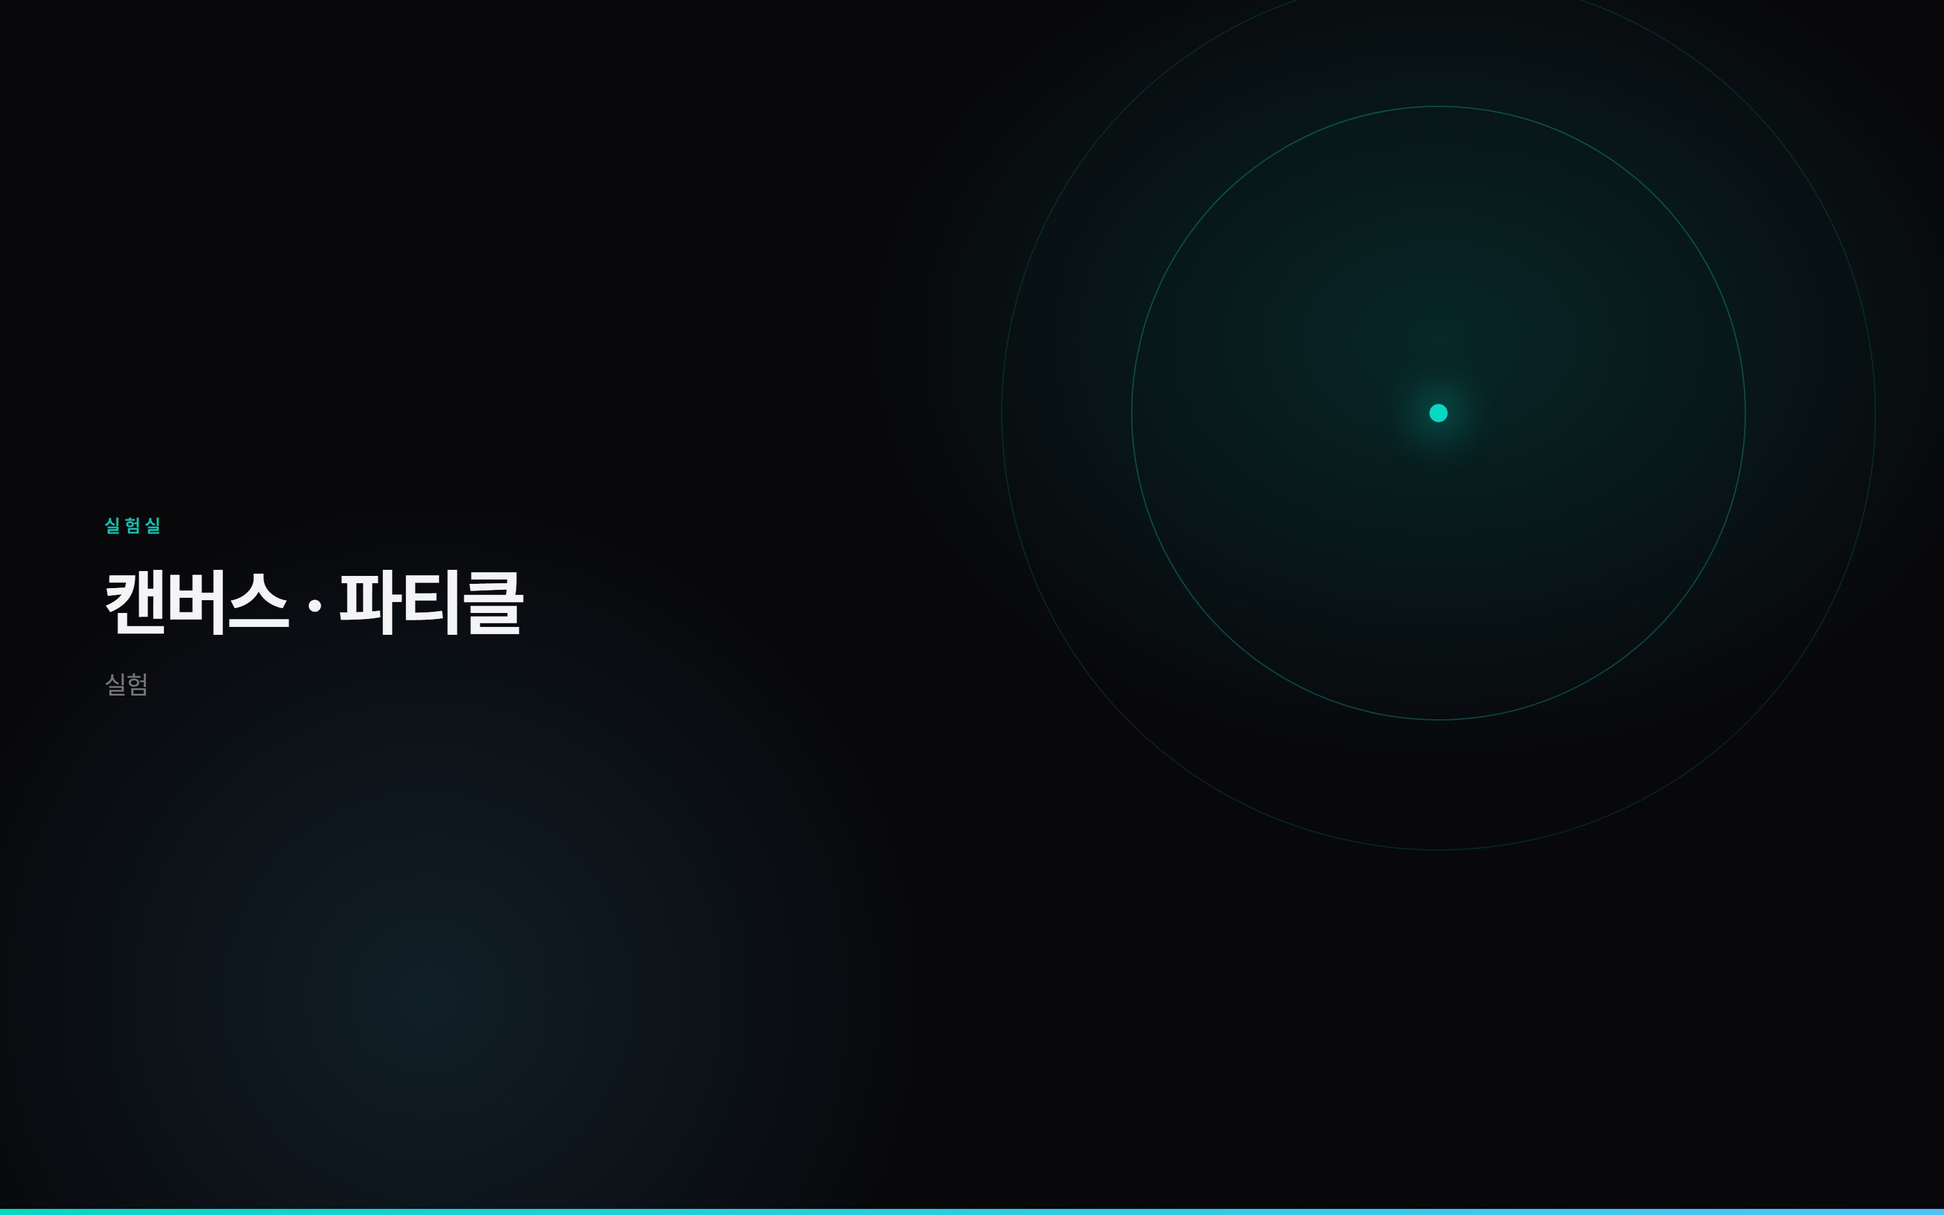
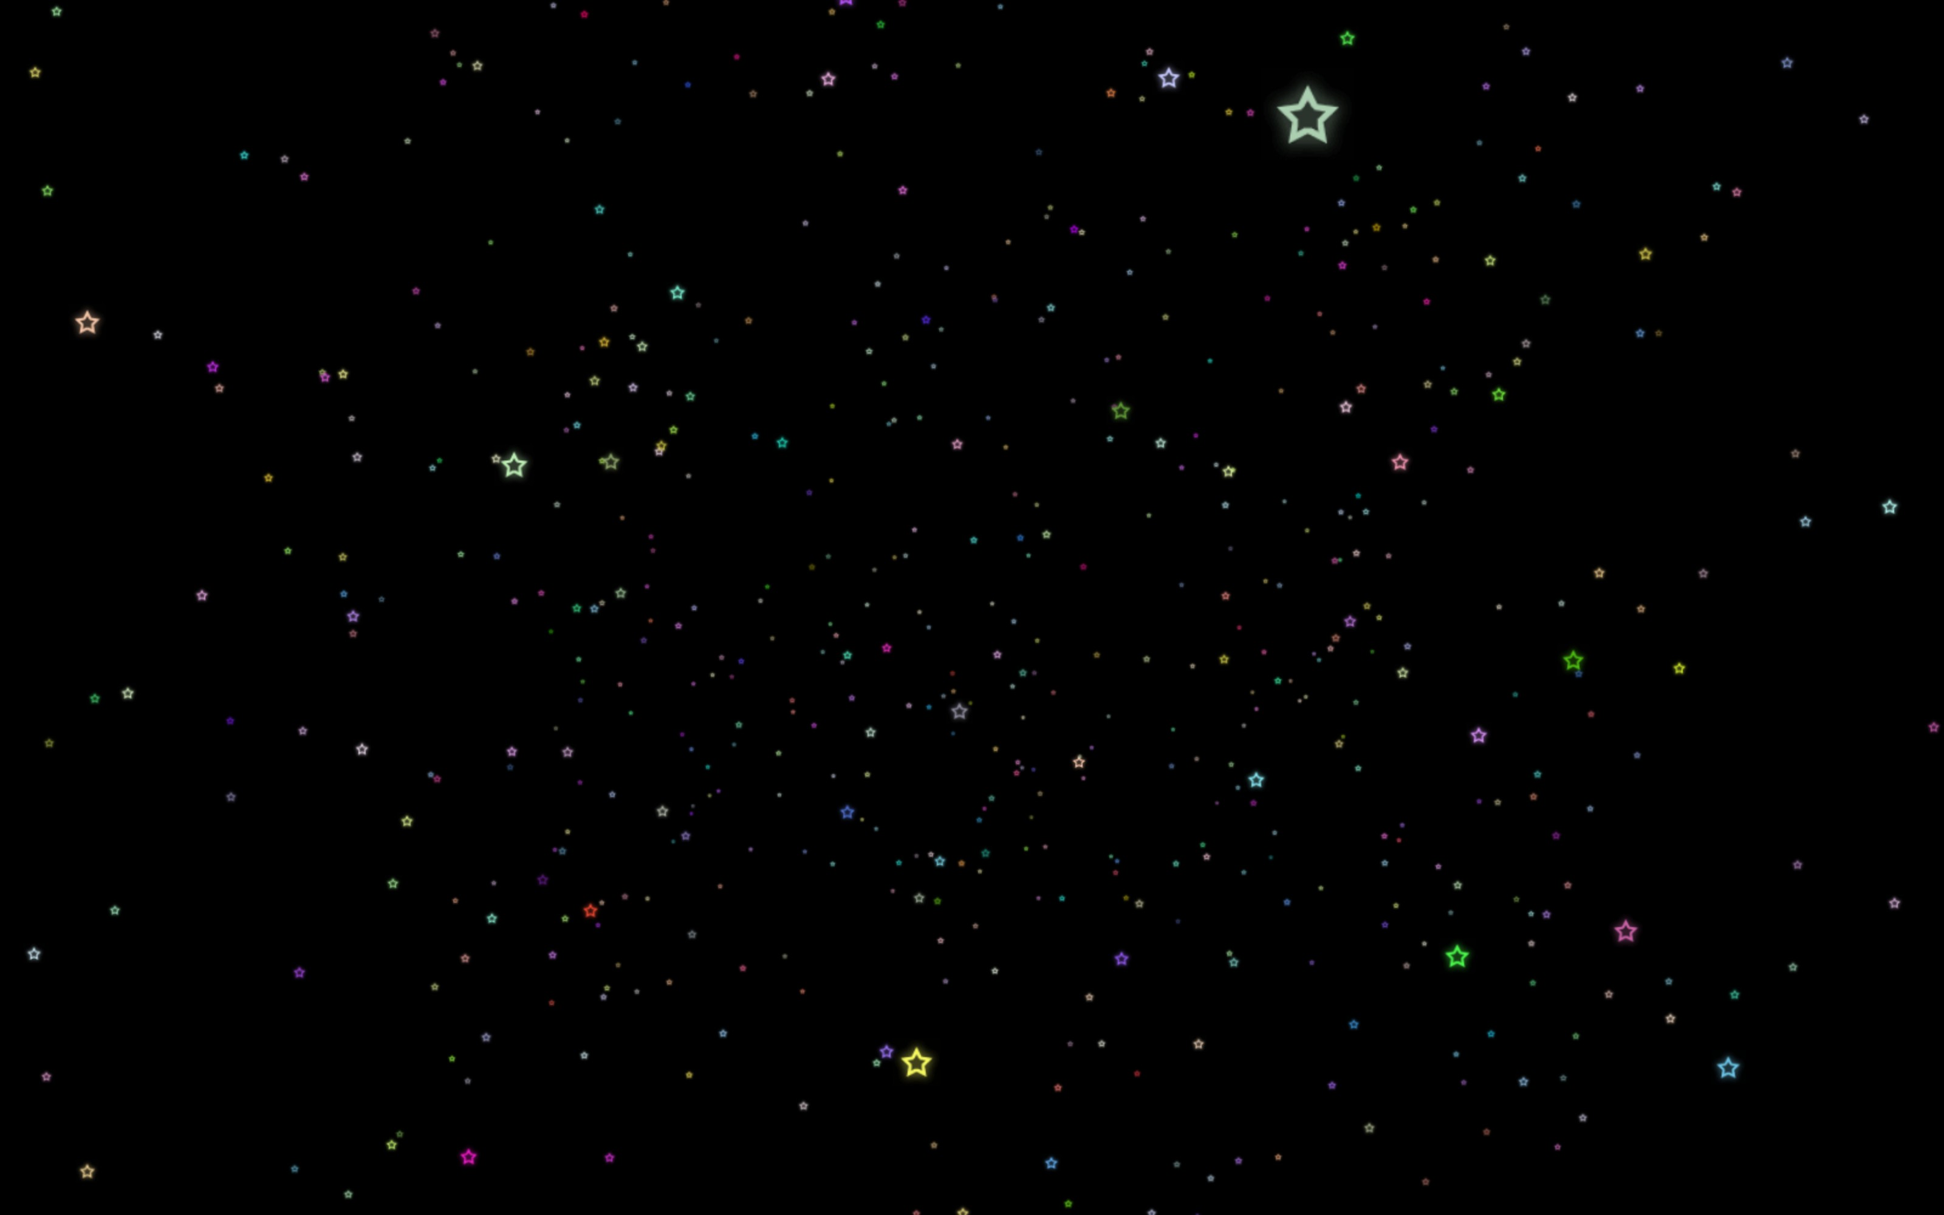
content: lab 을 쪼개 실험 저장소 이미지를 전부 실물로 채웠다
플레이스홀더로 남아 있던 canvas-lab · react-basics 에 넣을 후보를 찾다가,
저장소를 직접 클론해 돌려서 캡처했다. 본문도 캡처하는 김에 소스를 읽고
확인한 내용으로 다시 썼다.

신설
- multicanvas-lab: main.js 주제가 "여러개의 캔버스 사용하기" 다.
  WebGLRenderer 는 하나뿐이고, CreateScene.render() 가 자리표시자의
  getBoundingClientRect 를 매 프레임 읽어 setScissor/setViewport 로
  그 영역만 그린다. 화면 밖이면 early-return 으로 건너뛴다.
- scroll-3d: main.js 주제가 "스크롤에 따라 움직이는 3D 페이지" 다.
  GLTF house.glb + gsap + window.scrollY.

이미지 (전부 저장소를 실제로 띄워 찍었다)
- canvas-lab      particle-colorful-stars
- multicanvas-lab multicanvas
- scroll-3d       scroll-page
- react-basics    react-todos (빌드 산출물을 띄워 항목 4개 직접 입력)
- react-basics-2  react-practice6 — MULTI 로 두 번째 이미지

MULTI 는 원본에서 물려받고 비어 있던 표다. react-basics 에 2 를 넣어
처음으로 쓴다. 히어로에 ‹ › 가 붙고 스트립 클릭이 이미지를 교체하는 것을
실측했다. react-practice6 은 저장소에 빌드만 있고 소스가 없어 본문을 쓸 수
없으므로 노드로 두지 않았다.

canvas-lab 본문에서 particles 와 particle 을 뺐다.
- particles 는 three.js 공식 예제 사본이다. 화면에 "Based on this
  experiment by Christophe Choffel" 이 그대로 찍힌다. 본인 실험으로
  나열하고 있었다.
- particle 은 개인 사진이 텍스처로 들어가 있어 공개할 수 없다.

지도 라벨이 겹쳐서 이름을 줄였다 — "스크롤에 반응하는 3D" 가
"3D · 아이소메트릭" 과 붙는 것을 캡처로 확인하고 "스크롤 연동 3D" 로,
"캔버스 여러 개 쓰기" 는 "캔버스 여러 개" 로. 뜻은 sum/body 가 진다.

노드 32 -> 34 (lab 5 -> 7). 노드 겹침은 10건 그대로 — 새로 생기지 않았다.
검증: tsc 0 · lint 0 · unit 20 · e2e 3 · build 성공.
34개 노드 순회에서 pageerror 0, 썸네일 404 0, 라이트박스 프로브 404 0.

diff --git a/chanki-react/data/nodes.ts b/chanki-react/data/nodes.ts
@@ -755,9 +755,15 @@ export const NODES: ContentNode[] = [
     "name": "캔버스 · 파티클",
     "region": "lab",
     "kicker": "실험",
-    "sum": "파티클과 캔버스 합성을 다양하게 시도해 본 저장소들입니다.",
-    "body": "particles, particle, particle-colorful-stars, multicanvas, canvas-test 저장소로 캔버스 위에서 입자를 다루는 방법을 실험했습니다. 여러 캔버스를 겹쳐 합성하거나, 수천 개 입자를 프레임마다 그릴 때 무엇이 병목이 되는지 직접 확인해 보는 것이 목적이었습니다. 지금 보고 계신 이 지도도 같은 계열입니다.",
+    "sum": "한 저장소에 예제를 여섯 개 넣어두고 입자를 다루는 방법을 하나씩 바꿔가며 실험했습니다.",
+    "body": "particle-colorful-stars 한 저장소에 예제를 여섯 개 넣어두고 하나씩 바꿔가며 실험했습니다. 기본 Geometry로 만든 파티클에서 시작해 랜덤 배치, Point 좌표마다 메쉬를 생성하는 것, 형태가 바뀌는 이미지 패널까지 갔습니다. 수천 개 입자를 프레임마다 그릴 때 무엇이 병목이 되는지 직접 확인해 보는 것이 목적이었습니다. 지금 보고 계신 이 지도도 같은 계열입니다.",
     "cap": "캔버스 · 파티클 실험",
+    "links": [
+      [
+        "particle-colorful-stars",
+        "https://github.com/blackstarzck/particle-colorful-stars"
+      ]
+    ],
     "project": {
       "role": "개인 실험",
       "skills": [
@@ -774,6 +780,76 @@ export const NODES: ContentNode[] = [
     "x": -4.1,
     "y": -4.72,
     "r": 0.62
+  },
+  {
+    "id": "multicanvas-lab",
+    "name": "캔버스 여러 개",
+    "region": "lab",
+    "kicker": "실험",
+    "sum": "WebGL 렌더러 하나로 페이지 곳곳의 캔버스 자리를 채웁니다.",
+    "body": "캔버스마다 렌더러를 하나씩 두면 브라우저가 허용하는 WebGL 컨텍스트 수에 금방 닿습니다. multicanvas는 렌더러를 하나만 두고, 페이지에 흩어진 자리표시자 세 곳의 위치를 매 프레임 getBoundingClientRect로 읽어 setScissor와 setViewport로 그 영역만 잘라 그립니다. 자리가 화면 밖으로 밀려나면 아예 그리지 않고 넘어갑니다. 캔버스가 여러 개인 것처럼 보이지만 실제로는 하나입니다. 장면마다 GLTF 모델과 자기 카메라를 따로 가집니다.",
+    "cap": "캔버스 여러 개 · 실험",
+    "links": [
+      [
+        "multicanvas",
+        "https://github.com/blackstarzck/multicanvas"
+      ]
+    ],
+    "project": {
+      "role": "개인 실험",
+      "skills": [
+        [
+          "WebGL 컨텍스트 관리",
+          "first"
+        ],
+        [
+          "three.js",
+          "grew"
+        ],
+        [
+          "뷰포트 컬링",
+          "first"
+        ]
+      ]
+    },
+    "x": -3.19,
+    "y": -6.0,
+    "r": 0.72
+  },
+  {
+    "id": "scroll-3d",
+    "name": "스크롤 연동 3D",
+    "region": "lab",
+    "kicker": "실험",
+    "sum": "스크롤 위치에 3D 장면을 묶어, 페이지를 내리면 장면 안으로 들어갑니다.",
+    "body": "소스에 적어둔 주제 그대로 '스크롤에 따라 움직이는 3D 페이지'입니다. GLTF로 불러온 집 모델을 배치하고 window.scrollY 값을 gsap으로 카메라에 연결했습니다. 스크롤을 내리면 장면 안을 이동하는 것처럼 보입니다. 값이 변하는 일과 화면에 그리는 일을 어디서 나눌지 정해야 하는데, 이 포트폴리오의 지도도 결국 같은 문제를 푼 것입니다.",
+    "cap": "스크롤 연동 3D · 실험",
+    "links": [
+      [
+        "scroll-page",
+        "https://github.com/blackstarzck/scroll-page"
+      ]
+    ],
+    "project": {
+      "role": "개인 실험",
+      "skills": [
+        [
+          "GSAP",
+          "first"
+        ],
+        [
+          "GLTF 로딩",
+          "grew"
+        ],
+        [
+          "스크롤 연동",
+          "first"
+        ]
+      ]
+    },
+    "x": -1.62,
+    "y": -6.04,
+    "r": 0.82
   },
   {
     "id": "three-lab",
@@ -796,9 +872,9 @@ export const NODES: ContentNode[] = [
         ]
       ]
     },
-    "x": -2.49,
-    "y": -6.33,
-    "r": 0.72
+    "x": -0.24,
+    "y": -6.8,
+    "r": 0.62
   },
   {
     "id": "game-lab",
@@ -843,9 +919,9 @@ export const NODES: ContentNode[] = [
         ]
       ]
     },
-    "x": -0.22,
-    "y": -6.25,
-    "r": 0.82
+    "x": 1.19,
+    "y": -6.14,
+    "r": 0.72
   },
   {
     "id": "trading-lab",
@@ -895,9 +971,9 @@ export const NODES: ContentNode[] = [
         ]
       ]
     },
-    "x": 2.04,
-    "y": -6.49,
-    "r": 0.62
+    "x": 2.77,
+    "y": -6.21,
+    "r": 0.82
   },
   {
     "id": "react-basics",
@@ -907,6 +983,16 @@ export const NODES: ContentNode[] = [
     "sum": "라우터·상태·스타일링을 하나씩 떼어 연습하던 시기의 기록입니다.",
     "body": "2022년, react-practice1부터 7까지와 react-router-practice, react-styled-component, react-swiper 같은 연습 저장소들을 남겼습니다. 지금 보면 조각난 예제들이지만, 이때 하나씩 떼어 연습한 것들이 이후 실무에서 조합되어 쓰였습니다. 지우지 않고 두는 이유입니다.",
     "cap": "React 학습기 · 2022",
+    "links": [
+      [
+        "react-todos",
+        "https://github.com/blackstarzck/react-todos"
+      ],
+      [
+        "react-practice1~7",
+        "https://github.com/blackstarzck?tab=repositories&q=react-practice"
+      ]
+    ],
     "project": {
       "role": "학습",
       "duration": "2022",
@@ -919,6 +1005,6 @@ export const NODES: ContentNode[] = [
     },
     "x": 3.76,
     "y": -4.99,
-    "r": 0.72
+    "r": 0.62
   }
 ]

diff --git a/chanki-react/data/regions.ts b/chanki-react/data/regions.ts
@@ -82,8 +82,15 @@ export const TREECOLS: [Region, string][] = [
 /** 라이트 테마 전용 이미지가 있는 노드. 아직 없음. */
 export const THEMED: Record<string, number> = {}
 
-/** 이미지 스트립(<id>-2.jpg …)이 있는 노드와 장수. 아직 없음. */
-export const MULTI: Record<string, number> = {}
+/**
+ * 이미지 스트립이 있는 노드와 장수. <id>.jpg 다음에 <id>-2.jpg … 를 읽는다.
+ * react-basics 2 = react-todos(대표) + react-practice6(네비게이션 바).
+ * react-practice6 은 저장소에 빌드 산출물만 있어 소스를 읽을 수 없다.
+ * 그래서 노드로 두지 않고 이미지로만 남겼다.
+ */
+export const MULTI: Record<string, number> = {
+  "react-basics": 2
+}
 
 /** 카드 이미지를 다른 파일명으로 쓰는 노드. 아직 없음. */
 export const CARD_IMG: Record<string, string> = {}

diff --git a/chanki-react/data/edges.ts b/chanki-react/data/edges.ts
@@ -112,6 +112,14 @@ export const EDGES: [string, string][] = [
   ],
   [
     "lab",
+    "multicanvas-lab"
+  ],
+  [
+    "lab",
+    "scroll-3d"
+  ],
+  [
+    "lab",
     "three-lab"
   ],
   [
@@ -197,6 +205,18 @@ export const EDGES: [string, string][] = [
   [
     "trading-lab",
     "supabase"
+  ],
+  [
+    "canvas-lab",
+    "multicanvas-lab"
+  ],
+  [
+    "multicanvas-lab",
+    "three-lab"
+  ],
+  [
+    "scroll-3d",
+    "three-lab"
   ],
   [
     "ai-squads",

diff --git a/chanki-react/data/zmap.ts b/chanki-react/data/zmap.ts
@@ -30,8 +30,10 @@ export const ZMAP: Record<string, number> = {
   "english": -0.93,
   "lab": 0.35,
   "canvas-lab": 0.17,
-  "three-lab": 0.35,
-  "game-lab": 0.53,
-  "trading-lab": 0.17,
-  "react-basics": 0.35
+  "multicanvas-lab": 0.35,
+  "scroll-3d": 0.53,
+  "three-lab": 0.17,
+  "game-lab": 0.35,
+  "trading-lab": 0.53,
+  "react-basics": 0.17
 }

diff --git a/chanki-react/data/spine.ts b/chanki-react/data/spine.ts
@@ -11,6 +11,8 @@ export const SPINE: string[] = [
   "dealer-admin",
   "legacy-cleanup",
   "canvas-lab",
+  "multicanvas-lab",
+  "scroll-3d",
   "three-lab",
   "game-lab",
   "trading-lab",

diff --git a/chanki-react/tools/gen-content.py b/chanki-react/tools/gen-content.py
@@ -36,6 +36,9 @@ AGRAD = {
     "lab":      ["#06D6C4", "#4FC3F7"],
 }
 
+# 이미지 스트립(<id>-2.jpg …) 장수. 자세한 설명은 아래 MULTI 출력부 주석 참고.
+MULTI = {"react-basics": 2}
+
 # ── 노드 정의 ────────────────────────────────────────────────────────────
 # (id, name, region, kicker, sum, body, cap, project|None, links|None)
 N = []
@@ -320,10 +323,27 @@ node("lab", "실험실", "lab", "손이 기억하는 것",
      links=[["GitHub에서 전부 보기", "https://github.com/blackstarzck?tab=repositories"]])
 
 node("canvas-lab", "캔버스 · 파티클", "lab", "실험",
-     "파티클과 캔버스 합성을 다양하게 시도해 본 저장소들입니다.",
-     "particles, particle, particle-colorful-stars, multicanvas, canvas-test 저장소로 캔버스 위에서 입자를 다루는 방법을 실험했습니다. 여러 캔버스를 겹쳐 합성하거나, 수천 개 입자를 프레임마다 그릴 때 무엇이 병목이 되는지 직접 확인해 보는 것이 목적이었습니다. 지금 보고 계신 이 지도도 같은 계열입니다.",
+     "한 저장소에 예제를 여섯 개 넣어두고 입자를 다루는 방법을 하나씩 바꿔가며 실험했습니다.",
+     "particle-colorful-stars 한 저장소에 예제를 여섯 개 넣어두고 하나씩 바꿔가며 실험했습니다. 기본 Geometry로 만든 파티클에서 시작해 랜덤 배치, Point 좌표마다 메쉬를 생성하는 것, 형태가 바뀌는 이미지 패널까지 갔습니다. 수천 개 입자를 프레임마다 그릴 때 무엇이 병목이 되는지 직접 확인해 보는 것이 목적이었습니다. 지금 보고 계신 이 지도도 같은 계열입니다.",
      "캔버스 · 파티클 실험",
-     P(role="개인 실험", skills=[["Canvas 2D", "grew"], ["파티클 시스템", "first"]]))
+     P(role="개인 실험", skills=[["Canvas 2D", "grew"], ["파티클 시스템", "first"]]),
+     links=[["particle-colorful-stars", "https://github.com/blackstarzck/particle-colorful-stars"]])
+
+node("multicanvas-lab", "캔버스 여러 개", "lab", "실험",
+     "WebGL 렌더러 하나로 페이지 곳곳의 캔버스 자리를 채웁니다.",
+     "캔버스마다 렌더러를 하나씩 두면 브라우저가 허용하는 WebGL 컨텍스트 수에 금방 닿습니다. multicanvas는 렌더러를 하나만 두고, 페이지에 흩어진 자리표시자 세 곳의 위치를 매 프레임 getBoundingClientRect로 읽어 setScissor와 setViewport로 그 영역만 잘라 그립니다. 자리가 화면 밖으로 밀려나면 아예 그리지 않고 넘어갑니다. 캔버스가 여러 개인 것처럼 보이지만 실제로는 하나입니다. 장면마다 GLTF 모델과 자기 카메라를 따로 가집니다.",
+     "캔버스 여러 개 · 실험",
+     P(role="개인 실험",
+       skills=[["WebGL 컨텍스트 관리", "first"], ["three.js", "grew"], ["뷰포트 컬링", "first"]]),
+     links=[["multicanvas", "https://github.com/blackstarzck/multicanvas"]])
+
+node("scroll-3d", "스크롤 연동 3D", "lab", "실험",
+     "스크롤 위치에 3D 장면을 묶어, 페이지를 내리면 장면 안으로 들어갑니다.",
+     "소스에 적어둔 주제 그대로 '스크롤에 따라 움직이는 3D 페이지'입니다. GLTF로 불러온 집 모델을 배치하고 window.scrollY 값을 gsap으로 카메라에 연결했습니다. 스크롤을 내리면 장면 안을 이동하는 것처럼 보입니다. 값이 변하는 일과 화면에 그리는 일을 어디서 나눌지 정해야 하는데, 이 포트폴리오의 지도도 결국 같은 문제를 푼 것입니다.",
+     "스크롤 연동 3D · 실험",
+     P(role="개인 실험",
+       skills=[["GSAP", "first"], ["GLTF 로딩", "grew"], ["스크롤 연동", "first"]]),
+     links=[["scroll-page", "https://github.com/blackstarzck/scroll-page"]])
 
 node("three-lab", "3D · 아이소메트릭", "lab", "실험",
      "아이소메트릭 뷰와 3D 모델, 카메라 컨트롤을 다뤄본 저장소들입니다.",
@@ -362,7 +382,9 @@ node("react-basics", "React 학습기", "lab", "2022",
      "React 학습기 · 2022",
      P(role="학습",
        duration="2022",
-       skills=[["React", "first"]]))
+       skills=[["React", "first"]]),
+     links=[["react-todos", "https://github.com/blackstarzck/react-todos"],
+            ["react-practice1~7", "https://github.com/blackstarzck?tab=repositories&q=react-practice"]])
 
 # ── 좌표 계산 ────────────────────────────────────────────────────────────
 AREA_ANGLE = {"frontend": 118, "ai": 62, "backend": 348, "product": 192, "lab": 268}
@@ -412,6 +434,8 @@ E += [
     ["figma-gen", "corp-sites"], ["my-skills", "gate-harness"],
     ["react-basics", "dealer-web"], ["canvas-lab", "three-lab"],
     ["three-lab", "game-lab"], ["trading-lab", "supabase"],
+    ["canvas-lab", "multicanvas-lab"], ["multicanvas-lab", "three-lab"],
+    ["scroll-3d", "three-lab"],
     ["ai-squads", "multi-agent"],
     ["english", "dadoke"], ["docs-comm", "dealer-admin"],
     ["doc-merge", "backend"], ["dadoke", "topik-user"],
@@ -419,7 +443,8 @@ E += [
 
 # ── SPINE (서사 순서) ────────────────────────────────────────────────────
 SPINE = ["chanki", "contact", "english", "react-basics", "frontend", "dealer-web", "dealer-admin",
-         "legacy-cleanup", "canvas-lab", "three-lab", "game-lab", "trading-lab", "lab",
+         "legacy-cleanup", "canvas-lab", "multicanvas-lab", "scroll-3d", "three-lab",
+         "game-lab", "trading-lab", "lab",
          "farm-3d", "connect-bee", "farm-api", "backend", "doc-merge", "supabase",
          "corp-sites", "figma-gen", "dadoke", "docs-comm", "product",
          "topik-user", "topik-admin", "ai", "gate-harness", "multi-agent",
@@ -440,7 +465,7 @@ for n in N:
 # ── 무결성 검사 ──────────────────────────────────────────────────────────
 ids = {n["id"] for n in N}
 assert len(ids) == len(N), "중복 id"
-assert len(N) == 32, f"노드 수 {len(N)}"
+assert len(N) == 34, f"노드 수 {len(N)}"
 for a, b in E:
     assert a in ids and b in ids, f"엣지 미상 노드: {a}-{b}"
 assert set(SPINE) == ids, f"SPINE 누락: {ids - set(SPINE)} / 초과: {set(SPINE) - ids}"
@@ -479,8 +504,13 @@ export const TREECOLS: [Region, string][] = {j(TREECOLS)}
 /** 라이트 테마 전용 이미지가 있는 노드. 아직 없음. */
 export const THEMED: Record<string, number> = {{}}
 
-/** 이미지 스트립(<id>-2.jpg …)이 있는 노드와 장수. 아직 없음. */
-export const MULTI: Record<string, number> = {{}}
+/**
+ * 이미지 스트립이 있는 노드와 장수. <id>.jpg 다음에 <id>-2.jpg … 를 읽는다.
+ * react-basics 2 = react-todos(대표) + react-practice6(네비게이션 바).
+ * react-practice6 은 저장소에 빌드 산출물만 있어 소스를 읽을 수 없다.
+ * 그래서 노드로 두지 않고 이미지로만 남겼다.
+ */
+export const MULTI: Record<string, number> = {j(MULTI)}
 
 /** 카드 이미지를 다른 파일명으로 쓰는 노드. 아직 없음. */
 export const CARD_IMG: Record<string, string> = {{}}

diff --git a/chanki-react/README.md b/chanki-react/README.md
@@ -1,7 +1,7 @@
 # 김찬기 — 포트폴리오
 
 Next.js 16 + TypeScript + Zustand 로 만든 캔버스 기반 포트폴리오입니다.
-32개 노드를 6개 영역으로 나눠 지도처럼 탐색합니다. TypeScript 는 strict 모드로
+34개 노드를 6개 영역으로 나눠 지도처럼 탐색합니다. TypeScript 는 strict 모드로
 돌고 `any` 는 어디에도 쓰지 않습니다 — 새 코드에서도 유지해 주세요.
 
 렌더링 엔진과 인터랙션 구조는 [nicoborja.com](https://nicoborja.com) 을 분석해

diff --git a/README.md b/README.md
@@ -1,6 +1,6 @@
 # 김찬기 — 포트폴리오
 
-캔버스 위에 경력을 지도로 그린 개인 포트폴리오입니다. 32개 노드가 6개 영역
+캔버스 위에 경력을 지도로 그린 개인 포트폴리오입니다. 34개 노드가 6개 영역
 (입구 · 프론트엔드 · 서버 · AI · 제품 · 실험실)으로 나뉘어 있고, 노드를 따라가며
 어떤 일을 해왔는지 볼 수 있습니다.
 
